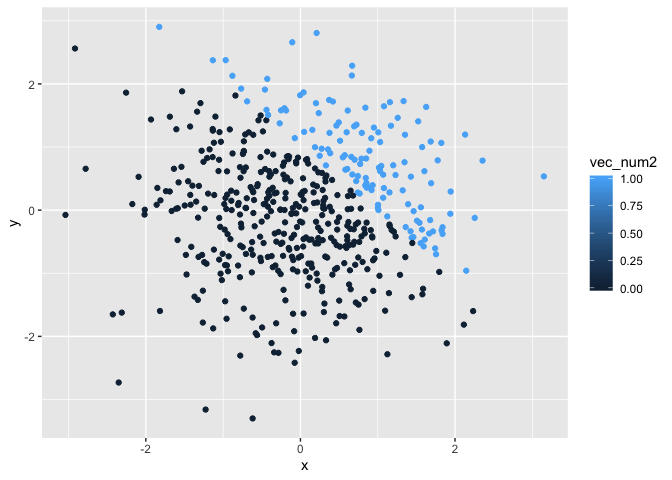
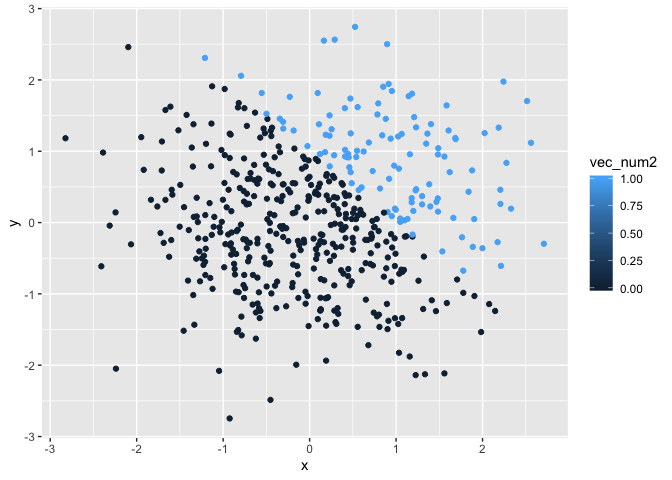
Adding author's name

diff --git a/hw1.md b/hw1.md
@@ -22,7 +22,7 @@ la_df= tibble(
 mean(pull(la_df, norm_samp))
 ```
 
-    ## [1] 0.1466755
+    ## [1] 0.6378671
 
 ``` r
 mean(pull(la_df, norm_samp_pos))
@@ -48,7 +48,7 @@ mean(pull(la_df, vec_factor))
 
     ## [1] NA
 
--   The mean of the numeric vector, norm\_samp, is 0.1466755;
+-   The mean of the numeric vector, norm\_samp, is 0.6378671;
 -   The mean of the logical vector, norm\_samp\_pos is 0.625;
 -   And NO mean could be taken for the character vector and factor vector.
 
@@ -60,8 +60,8 @@ converting variables from one type to another
 as.numeric(pull(la_df, norm_samp_pos))*pull(la_df, norm_samp)
 ```
 
-    ## [1] 0.3204064 0.0000000 0.4680994 0.6571017 0.9321928 0.3065544 0.0000000
-    ## [8] 0.0000000
+    ## [1] 1.0264271 1.4630650 1.0833036 0.0000000 0.9728837 0.0000000 0.0000000
+    ## [8] 1.6603717
 
 ``` r
 #convert the logical vector to factor and multiply the random sample by the result
@@ -75,8 +75,8 @@ as.factor(pull(la_df, norm_samp_pos))*pull(la_df, norm_samp)
 as.numeric(as.factor(pull(la_df, norm_samp_pos)))*pull(la_df, norm_samp)
 ```
 
-    ## [1]  0.6408127 -0.2963206  0.9361987  1.3142035  1.8643857  0.6131088
-    ## [7] -0.3448897 -0.8697400
+    ## [1]  2.0528541  2.9261300  2.1666073 -0.6282698  1.9457674 -0.1454793
+    ## [7] -0.3293649  3.3207434
 
 Problem 2
 =========
@@ -96,12 +96,12 @@ Short descprition
 
 -   the number of row in `p2_df` is 500;
 -   the number of column in `p2_df` is 5;
--   the mean of the x is 0.0108743;
--   the mean of the y is 0.0203131;
--   the median of the x is 0.0186161;
--   the median of the y is 0.0307908;
--   the standard deviation of x is 0.981596;
--   the proportion of cases for which x + y &gt; 1 is 0.256;
+-   the mean of the x is 0.0432372;
+-   the mean of the y is 0.0791862;
+-   the median of the x is 0.0931009;
+-   the median of the y is 0.0637138;
+-   the standard deviation of x is 0.9813603;
+-   the proportion of cases for which x + y &gt; 1 is 0.23;
 
 Scatterplot
 -----------
